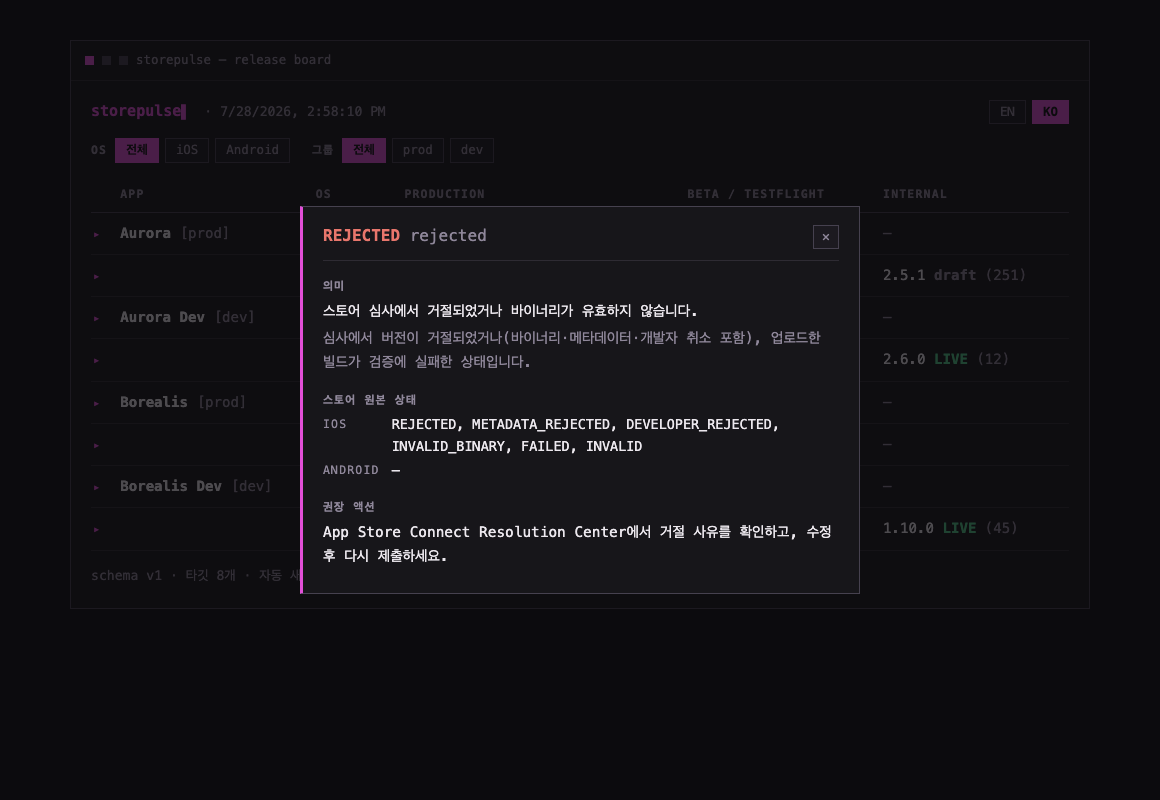
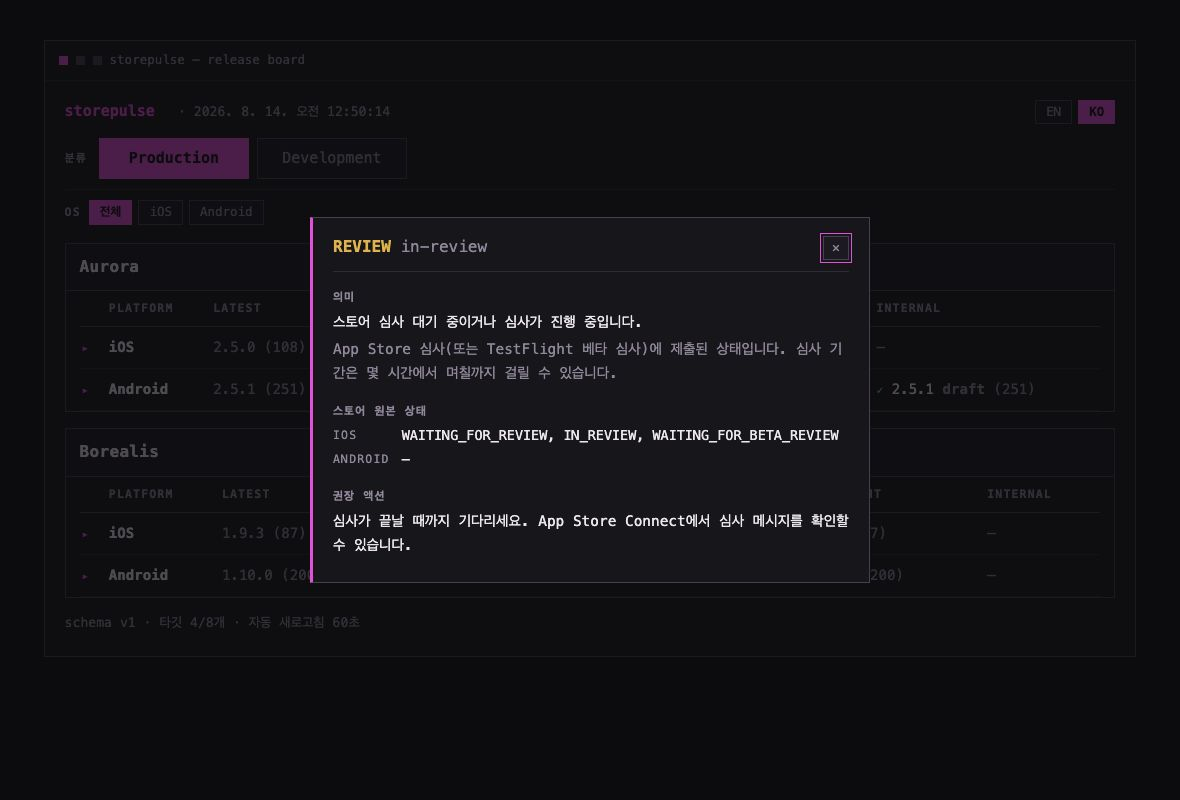
docs: 새 대시보드 구조 동기화

diff --git a/README.ko.md b/README.ko.md
@@ -106,17 +106,19 @@ npx storepulse serve --demo     # 로컬 웹 대시보드 → http://127.0.0.1:4
 npx storepulse snapshot --demo  # 보드를 JSON으로 출력
 ```
 
-![행마다 Latest 요약, 릴리즈가 있는 채널마다 ✓/▲ 전파 마크가 붙은 전폭 storepulse 웹 대시보드](docs/images/dashboard-propagation.png)
+![분류 선택기와 앱 카드, iOS·Android 플랫폼 행, Latest 번들, 채널 전파 마크가 보이는 storepulse 웹 대시보드](docs/images/dashboard-propagation.png)
 
-- **`storepulse serve`**는 같은 보드를 같은 디자인으로 보여주는 로컬 웹
-  대시보드를 띄워요. 자동으로 새로고침되고요. 행을 클릭하면 상세 패널이
-  열려요 — 릴리즈 노트 전문, 제출/업로드 날짜, 그리고 TestFlight 만료가
-  7일 이하로 남으면 D-day 경고까지 보여줘요. 상단 칩으로 OS(iOS/Android)와
-  그룹(`prod`/`dev`)을 조합해 보드를 좁혀볼 수도 있고요. 행마다 최신 번들
-  요약(`Latest: 2.5.0 (108)`)이 붙고, 릴리즈가 있는 채널 앞에는 전파 마크가 표시돼요 —
+- **`storepulse serve`**는 자동으로 새로고침되는 로컬 웹 대시보드를 띄워요.
+  타깃에 `group`이 있으면 분류 선택기가 한 번에 하나의 그룹을 보여줘요
+  (`prod`는 Production, `dev`는 Development처럼 표시해요). group이 하나도
+  없으면 선택기는 숨겨지고요. 선택한 분류 안에서는 앱마다 카드가 생기고,
+  iOS·Android 플랫폼 행과 Latest 열, 스토어 채널이 나란히 보여요. OS 칩으로
+  플랫폼 행을 더 좁힐 수도 있어요. 행을 클릭하면 릴리즈 노트 전문, 제출/업로드
+  날짜, TestFlight 만료 D-day가 담긴 상세 패널이 열려요. 플랫폼 행마다 최신 번들
+  (`2.5.0 (108)`)이 보이고, 릴리즈가 있는 채널 앞에는 전파 마크가 표시돼요 —
   최신 번들이 이미 반영됐으면 ✓, 뒤처져 있으면 ▲(마우스를 올리면 현재 vs
   최신을 비교해줘요. Android는 versionCode 기준이에요). "최신 빌드가 어느
-  환경까지 나갔나"가 한눈에 들어와요. 헤더의 EN/KO
+  배포 단계까지 나갔나"가 한눈에 들어와요. 헤더의 EN/KO
   스위처로 대시보드 언어를 바꿀 수 있고(선택은 브라우저가 기억해요), 행이
   아니라 상태 배지를 클릭하면 그 상태가 무슨 뜻인지 알려주는 용어 설명
   다이얼로그가 열려요. 옵션은 `--port`,

diff --git a/README.ja.md b/README.ja.md
@@ -106,14 +106,16 @@ npx storepulse serve --demo     # ローカル Web ダッシュボード → htt
 npx storepulse snapshot --demo  # ボードを JSON で出力
 ```
 
-![各行に Latest 要約、リリースのあるチャンネルに ✓/▲ の伝播マークが付いた全幅表示の storepulse Web ダッシュボード](docs/images/dashboard-propagation.png)
+![グループセレクター、アプリカード、iOS/Android のプラットフォーム行、Latest バンドル、チャンネル伝播マークを表示する storepulse Web ダッシュボード](docs/images/dashboard-propagation.png)
 
-- **`storepulse serve`** は、同じボードを同じデザインで表示するローカル Web
-  ダッシュボードを起動します。自動で更新されます。行をクリックすると
-  詳細パネルが開き、リリースノート全文、提出/アップロード日、そして TestFlight
-  の有効期限が残り 7 日以下になると D-day 警告を表示します。上部のチップで
-  OS(iOS/Android)とグループ(`prod`/`dev`)を組み合わせて絞り込むことも
-  できます。各行には最新バンドルの要約(`Latest: 2.5.0 (108)`)が付き、
+- **`storepulse serve`** は自動更新されるローカル Web ダッシュボードを起動します。
+  ターゲットに `group` があれば、セレクターは一度に 1 グループを表示します
+  (`prod` は Production、`dev` は Development と表示)。グループがなければ
+  セレクターは隠れます。選択したグループ内ではアプリごとにカードが作られ、
+  iOS/Android のプラットフォーム行、Latest 列、ストアチャンネルが並びます。
+  OS チップでさらに絞り込めます。行をクリックするとリリースノート全文、
+  提出/アップロード日、TestFlight の D-day 警告を含む詳細パネルが開きます。
+  各プラットフォーム行には最新バンドル(`2.5.0 (108)`)が表示され、
   リリースのあるチャンネルの先頭には伝播マークが表示されます — 最新バンドルが反映済みなら
   ✓、遅れていれば ▲(ホバーで現在 vs 最新を比較。Android は versionCode
   基準です)。「最新ビルドはどこまで届いたか」がひと目で分かります。

diff --git a/README.zh-CN.md b/README.zh-CN.md
@@ -100,15 +100,17 @@ npx storepulse serve --demo     # 本地 Web 看板 → http://127.0.0.1:4780
 npx storepulse snapshot --demo  # 把看板输出成 JSON
 ```
 
-![storepulse Web 看板 —— 全宽布局,每行带 Latest 摘要,每个有版本的渠道前有 ✓/▲ 传播标记](docs/images/dashboard-propagation.png)
+![storepulse Web 看板 —— 分组选择器、应用卡片、iOS/Android 平台行、Latest 构建和渠道传播标记](docs/images/dashboard-propagation.png)
 
-- **`storepulse serve`** 启动一个本地 Web 看板 —— 同一块看板,同样的设计,
-  还会自动刷新。点击任意一行即可展开详情面板:发布说明全文、提交/上传日期,
-  TestFlight 剩余有效期不足 7 天时还会亮出倒计时警告。顶部的筛选标签可以按
-  OS(iOS/Android)和分组(`prod`/`dev`)组合过滤看板。每行还带着最新构建的
-  摘要(`Latest: 2.5.0 (108)`),每个有版本的渠道前有一个传播标记 —— 已经拿到最新
+- **`storepulse serve`** 启动一个自动刷新的本地 Web 看板。目标设置了 `group`
+  时,分组选择器一次只显示一个组(`prod` 显示为 Production,`dev` 显示为
+  Development);完全没有分组时选择器会隐藏。在选中的分组里,每个应用都有
+  独立卡片,并列显示 iOS/Android 平台行、Latest 列和商店渠道;OS 筛选标签还能
+  进一步缩小平台范围。点击任意一行即可展开详情面板:发布说明全文、提交/上传
+  日期和 TestFlight 到期倒计时。每个平台行还带着最新构建(`2.5.0 (108)`),
+  每个有版本的渠道前有一个传播标记 —— 已经拿到最新
   构建显示 ✓,落后了则显示 ▲(悬停可对比当前 vs 最新;Android 按
-  versionCode 判断)——"最新构建到底发到了哪些环境"一眼就能看清。顶栏的 EN/KO
+  versionCode 判断)——"最新构建到底发到了哪些发布阶段"一眼就能看清。顶栏的 EN/KO
   切换器可以切换看板语言(选择会记在浏览器里),点击状态徽标(而不是整行)
   会弹出解释该状态含义的术语对话框。选项:`--port`、
   `--host`、`--refresh <秒>`。默认只绑定

diff --git a/README.md b/README.md
@@ -103,18 +103,21 @@ npx storepulse serve --demo     # local web dashboard → http://127.0.0.1:4780
 npx storepulse snapshot --demo  # the board as JSON, to stdout
 ```
 
-![storepulse web dashboard — a full-width board with a Latest summary per row and ✓/▲ propagation marks on channels that have releases](docs/images/dashboard-propagation.png)
+![storepulse web dashboard — group selector, app cards, iOS/Android platform rows, Latest bundles, and channel propagation marks](docs/images/dashboard-propagation.png)
 
-- **`storepulse serve`** starts a local, auto-refreshing web dashboard — same
-  board, same design. Click any row to open a detail panel: full release
-  notes, submission/upload dates, and a TestFlight expiry countdown that
-  turns into a warning at D-7. The chips at the top filter the board by OS
-  (iOS/Android) and by group (e.g. `prod` / `dev`), combined together.
-  Each row also sums up its latest uploaded bundle (`Latest: 2.5.0 (108)`),
+- **`storepulse serve`** starts a local, auto-refreshing web dashboard. When
+  targets have a `group`, the selector shows one group at a time (for example,
+  `prod` as Production and `dev` as Development); with no groups it stays
+  hidden. Inside the selected group, each app gets its own card with separate
+  iOS/Android platform rows, a Latest column, and the store channels. The OS
+  chips narrow those rows further. Click any row to open a detail panel: full
+  release notes, submission/upload dates, and a TestFlight expiry countdown
+  that turns into a warning at D-7. Each platform row sums up its latest
+  uploaded bundle (`2.5.0 (108)`),
   and every channel that has a release carries a propagation mark — ✓ when it already has that
   bundle, ▲ when it lags behind (hover to compare current vs latest; Android
   compares by versionCode) — so "how far did the newest build travel?" is
-  answered at a glance.
+  answered at a glance across delivery stages.
   The EN/KO switcher in the header flips the dashboard between English and
   Korean (your browser remembers the choice), and clicking a state badge —
   as opposed to the row — opens a glossary dialog explaining that state.

diff --git a/README.zh-TW.md b/README.zh-TW.md
@@ -100,15 +100,17 @@ npx storepulse serve --demo     # 本機 Web 儀表板 → http://127.0.0.1:4780
 npx storepulse snapshot --demo  # 把看板輸出成 JSON
 ```
 
-![storepulse Web 儀表板 —— 全寬版面,每列帶 Latest 摘要,每個有版本的通道前有 ✓/▲ 傳播標記](docs/images/dashboard-propagation.png)
+![storepulse Web 儀表板 —— 群組選擇器、App 卡片、iOS/Android 平台列、Latest 建置與通道傳播標記](docs/images/dashboard-propagation.png)
 
-- **`storepulse serve`** 會啟動一個本機 Web 儀表板 —— 同一塊看板、同樣的
-  設計,還會自動重新整理。點選任一列就會展開詳細面板:版本說明全文、
-  送審/上傳日期,TestFlight 有效期限剩不到 7 天時還會亮出倒數警告。上方的
-  篩選標籤可以依 OS(iOS/Android)與群組(`prod`/`dev`)組合過濾看板。
-  每列還帶著最新建置的摘要(`Latest: 2.5.0 (108)`),每個有版本的通道前有一個傳播
+- **`storepulse serve`** 會啟動一個自動重新整理的本機 Web 儀表板。目標設有
+  `group` 時,群組選擇器一次只顯示一個群組(`prod` 顯示為 Production,
+  `dev` 顯示為 Development);完全沒有群組時選擇器會隱藏。在選取的群組裡,
+  每個 App 都有自己的卡片,並列顯示 iOS/Android 平台列、Latest 欄與商店通道;
+  OS 篩選標籤還能進一步縮小平台範圍。點選任一列即可展開詳細面板:版本說明全文、
+  送審/上傳日期與 TestFlight 到期倒數。每個平台列還帶著最新建置
+  (`2.5.0 (108)`),每個有版本的通道前有一個傳播
   標記 —— 已經拿到最新建置顯示 ✓,落後了則顯示 ▲(游標移上去可對照目前 vs
-  最新;Android 以 versionCode 判斷)——「最新建置到底發到了哪些環境」
+  最新;Android 以 versionCode 判斷)——「最新建置到底發到了哪些發布階段」
   一眼就能看清。
   頂欄的 EN/KO 切換器可以切換儀表板語言(選擇會記在瀏覽器裡),點一下
   狀態徽章(而不是整列)會跳出解釋該狀態意義的術語對話方塊。
